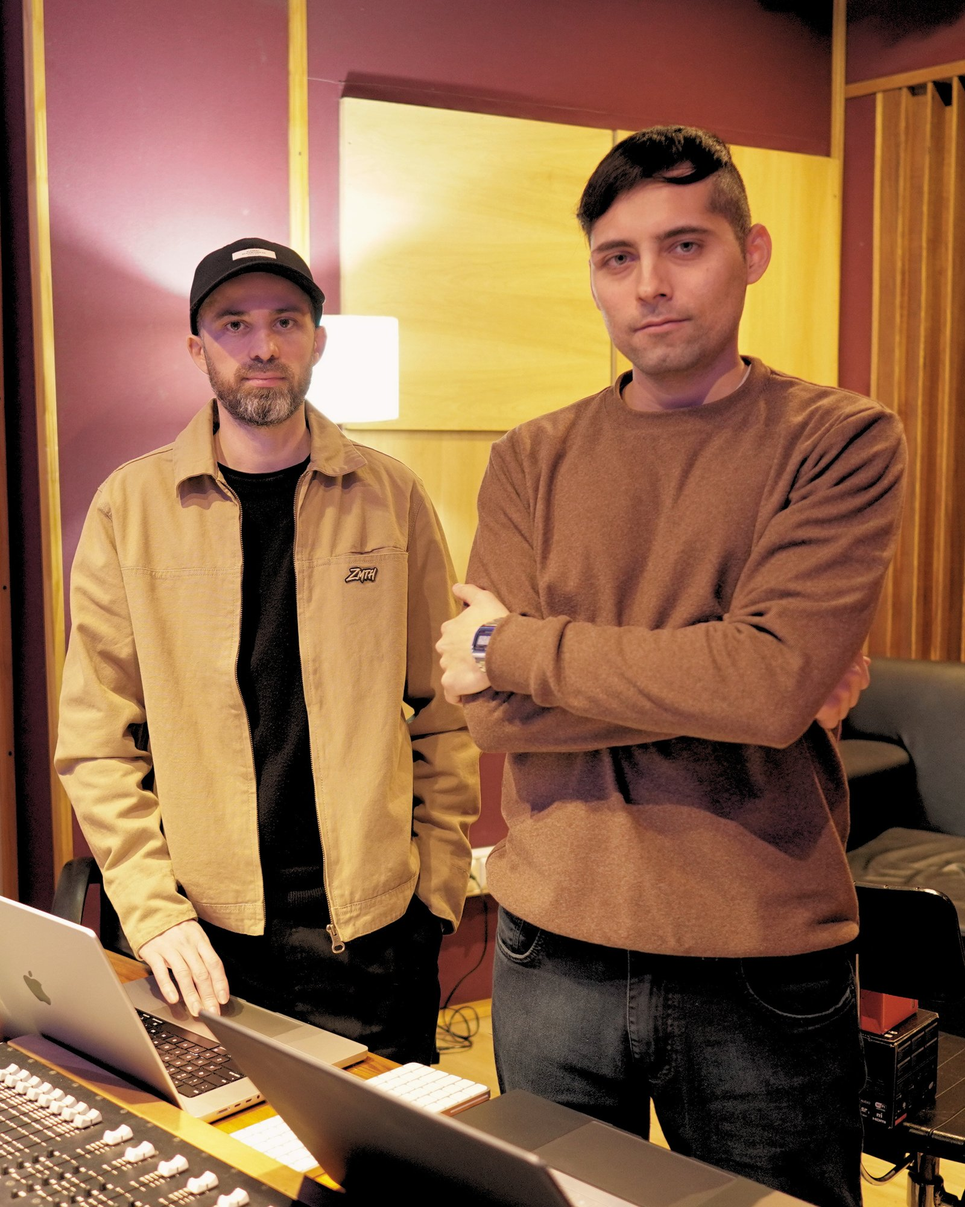
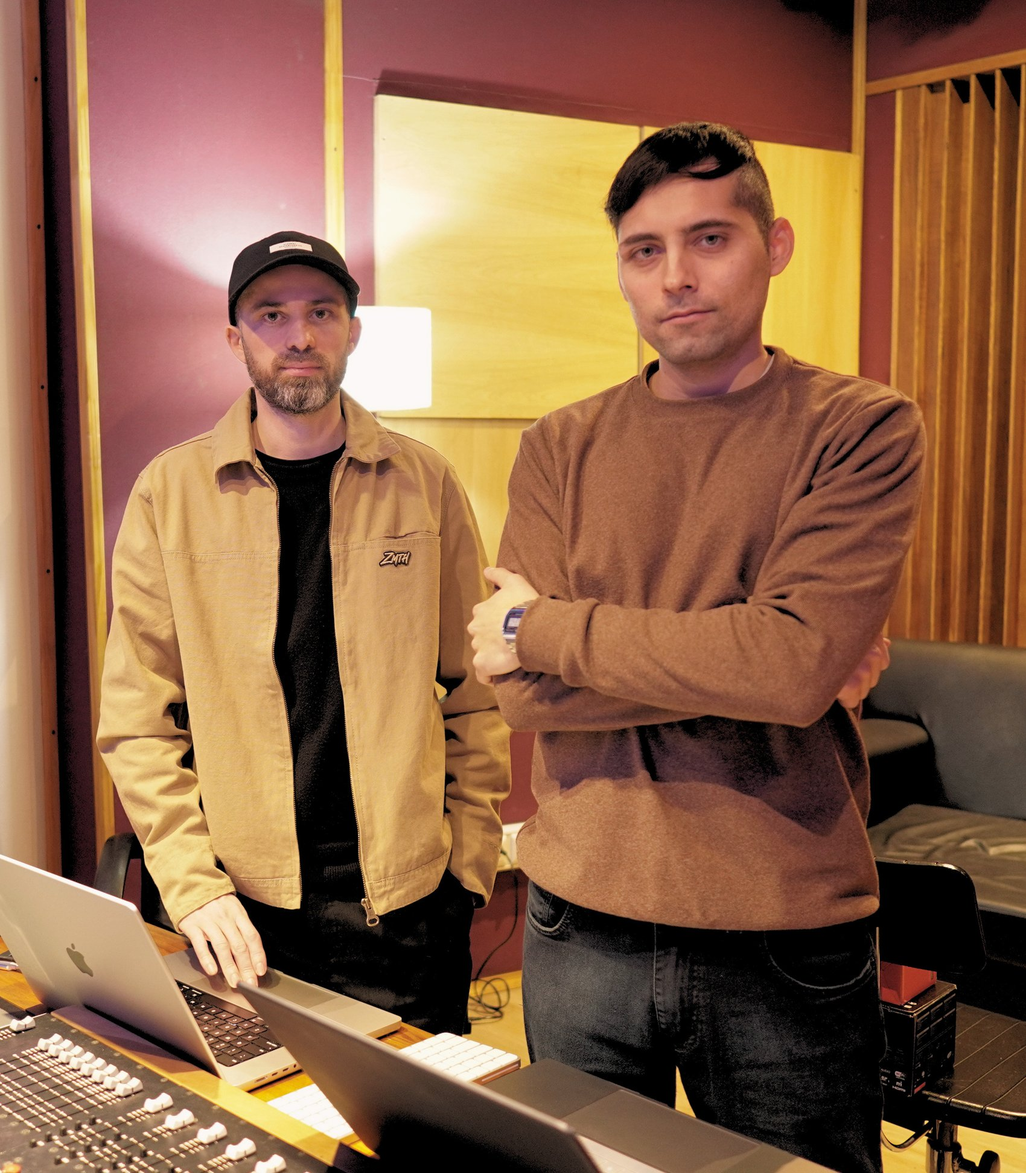
Ajustar posición de la foto en el hero mobile

diff --git a/frontend/app/page.tsx b/frontend/app/page.tsx
@@ -12,7 +12,7 @@ export default function EntrenamientoFocusPage() {
             alt="Matias Ledesma y Franco Cano en el estudio"
             fill
             priority
-            className="object-cover object-center"
+            className="object-cover object-[56%_50%]"
           />
         </div>
 
